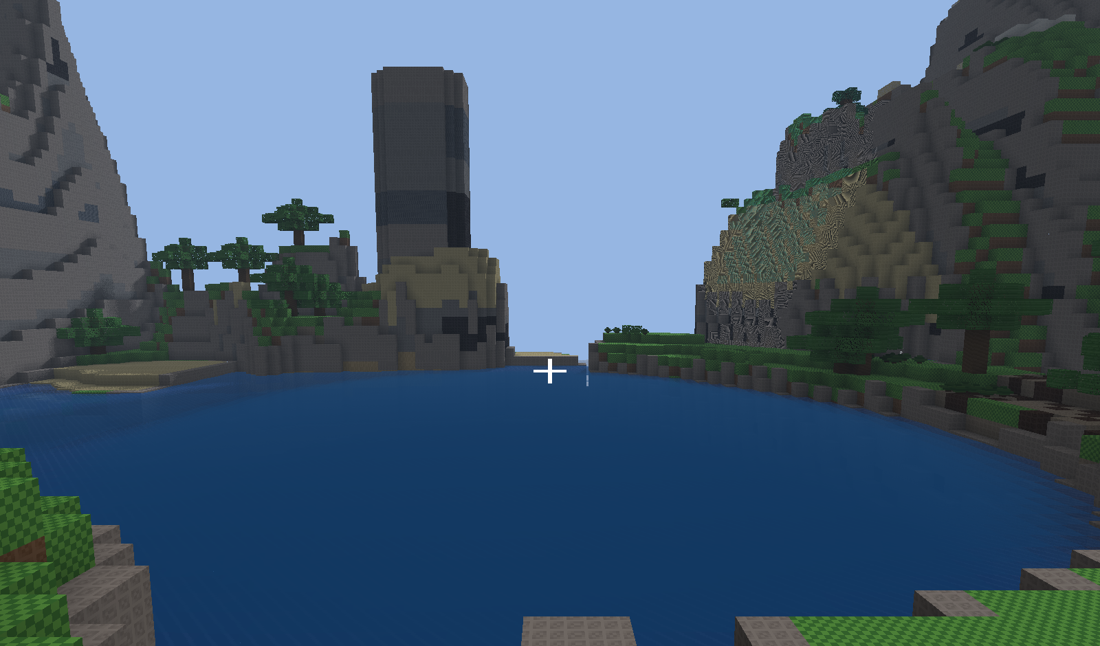
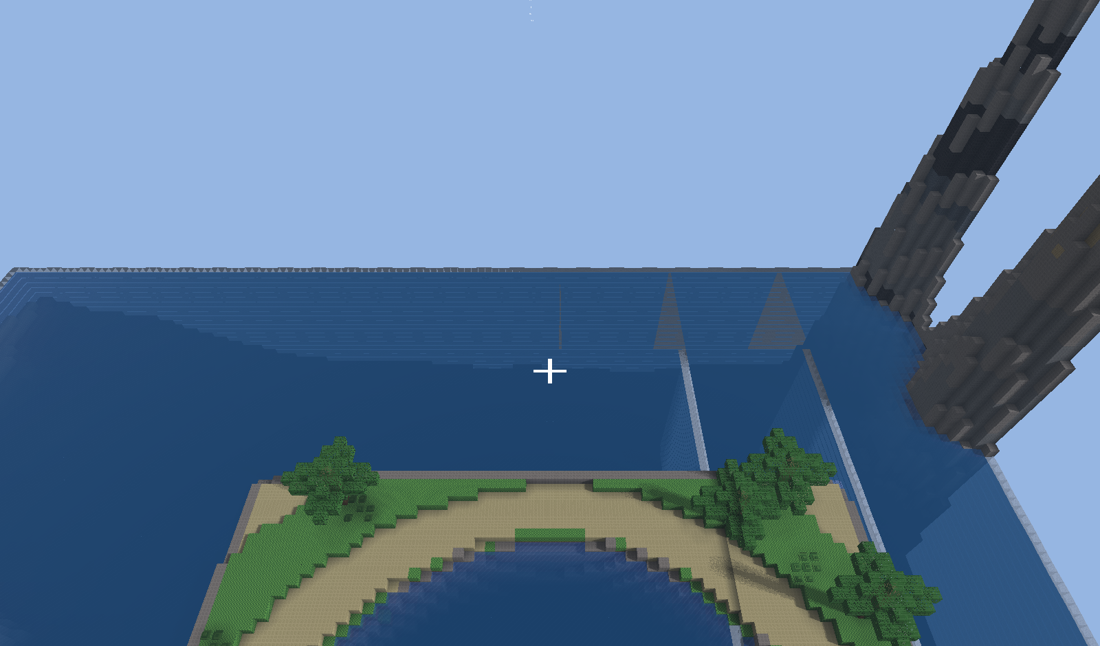
feat(terrain): open ocean, so the atoll has somewhere to be
The atoll was right and the world was wrong: the sea was wherever the land
dipped under 62, a shelf a few blocks deep, and "eight under the sea across the
ring" never held. Noise gains an ocean regime — one very broad octave marks
ocean country and ocean_of pulls the land there to an abyssal floor at sea - 22
with its own relief. It is terrain, so the pour, the beaches, the biome and the
atoll's placement all read it for free; it is in height_x4 too, or the lanes
test would have said so.

Islands: the pull is full up to sea + 12 and fades over the next 26, so a coast
drowns and a mountain becomes an island. Pulling everything drowned a glacier;
fading from the sea itself left every atoll site dry.

The atoll's country is now the ocean's own mask — with an octave of its own the
two rarely coincided. Five seeds in 140 have an atoll, in open water, ring and
lagoon and gap readable from above (docs/poi-atoll.png).

Three pinned terrain tests broke, none of them a bug in what changed: each was
a hunt asking a simpler question than the generator (water as surface; talus
over dune and bog from the piled slope; new sea-level basins that pour). A hunt
must ask the generator's own questions.

486 tests. Seed 7 now has ocean and an atoll, so both pinned hashes move
deliberately: CF_POI=0 1010970938, POIs on 866428893. Worst frame 6.50 ms.

diff --git a/RESULTS.md b/RESULTS.md
@@ -2684,3 +2684,55 @@ fails on a parse error, that number is the check and it must not fall.
 486 tests. `CF_POI=0` bit-identical (484802240); the pinned scenario with POIs
 on is 839500821 (seed 7 has a canyon and no delta). Worst frame 6.20 ms. Phase 3 is complete: all seven kinds from the original request
 are in.
+
+## Open ocean (2026-09-07)
+
+The atoll had nowhere to be. The sea was wherever the land happened to dip
+under 62 -- a shelf a few blocks deep -- and "eight under the sea across the
+ring" never held; the kind was right and the world was wrong. So the world
+gained an **ocean regime**: one very broad octave (`ocean_mask`, 1/250 blocks,
+over 0.62) marks ocean country, and there `ocean_of` pulls the land down to an
+abyssal floor at sea - 22 with its own gentle relief. It is terrain, so it
+lives in `Noise` and not in `Poi`: the lake pour, the beaches, the biome's
+distance-to-water and the atoll's placement all read it for free. It is in
+`height_x4` too, or the SIMD lanes test would have said so.
+
+**Islands.** The first version pulled everything in ocean country to the floor,
+snow-line peaks included; a glacier test at seed 11 said so. The pull is now
+full up to sea + 12 and fades over the next 26, so a coast drowns and a
+mountain becomes an island. A first attempt at that fade started at the sea
+itself, and a coast at sea + 8 kept most of its height -- every atoll site went
+dry (seed 54's ground went from 41 to 70).
+
+**The atoll's country is the ocean's.** Giving it an octave of its own meant the
+two rarely coincided: a ring probed thirty blocks out from a deep site kept
+finding the coast of the ocean's own patch. One in 140 seeds, then five once
+`country(k_atoll)` became `ocean_mask` and the ring was allowed to want real
+water again (`max_ground` sea - 6, probes at three quarters of the radius).
+`docs/poi-atoll.png` is seed 116 from above: a sand-and-grass ring round a blue
+lagoon in open sea, with the gap on the bearing.
+
+**Three pinned tests broke, and none of them was a bug in what changed.** Each
+was a hunt that asked a simpler question than the generator does, and open
+ocean was the first terrain where the answers differed:
+
+- *the biome band scan* -- `Biome.height_of` reads a column's surface with
+  water counted as ground (its climate wants that); `World.surface_y` stops at
+  the first collidable block, the bed. They agree on land, and every band
+  column had been land. The assertion now allows the sea's surface under water.
+- *the dune column is sand through* -- gravel on top: the generator gives talus
+  precedence over dune sand and reads slope off the PILED heightmap, which a
+  hunt over `Noise.slope` cannot see. The hunt now wants a dead-flat column.
+- *the bog* -- twice. First the same piled-slope trap; then, with that fixed,
+  every bog-shaped flat at seed 11 was the bed of a poured lake, because open
+  ocean makes new closed basins at sea level whose rims pour. The hunt now asks
+  the lake table too, and tries seeds from 11 up until one has bog.
+
+The pattern: **a hunt must ask the generator's own questions**, or the first
+terrain that separates them will fail the test for a reason that is not a bug.
+
+486 tests. Seed 7 now sits partly in ocean country and has an atoll at (94, 11),
+so both pinned hashes move deliberately: `CF_POI=0` **1010970938**, POIs on
+**866428893**. The `CF_POI=0` world is no longer "the world before POIs" -- the
+terrain itself changed -- but it is still the world with every point of
+interest off, which is what the gate is for.

diff --git a/todos.md b/todos.md
@@ -35,7 +35,7 @@ measurements.
 - [x] **World size in the seed; the new-world page** — done 2026-09-05 (terrain-erosion spec, "World size"): 64/96/128-block worlds, the side packed above the age in the seed, NEW GAME asks size and age (RANDOM or set) before START, `CF_SIZE`, slots load at their own side. Above 128 is the literal refactor `world_size_test` names.
 - [x] **Lake outlets on ancient worlds** — resolved 2026-09-05: the creeping flow was cave worms breaching lake basins, not sheets on terraces; worms now keep out of basin walls (`Caves.basin_wall`, `CF_KARST`), and since a full lake turned out to have no outlet at all, the pour point is dug one block down as a notch, one per basin of six or more columns. Flow plateaus at ~400 cells at both ages. See the lakes spec §3 and §6.
 
-- [x] **Points of interest** — done 2026-09-07 (`docs/superpowers/specs/2026-09-06-points-of-interest-design.md`, plan `docs/superpowers/plans/2026-09-06-poi-phase1.md`, measurements in RESULTS). All seven kinds from the request are in: desert buttes, the stone arch, the crystal cavern, the giant tree, the canyon, the atoll, the delta. A kind is a row in `CubeForge.Poi`'s tables plus a shape from shared profiles; three classes (scatter, landmark, field) decide where its rules are read; `CF_POI_PREVIEW=<kind>` draws it, `CF_POI_TRANSECT=<z>` reads a landform across the world, `CF_POI_GATE=1` says which placement rule refuses a kind, and one test walks every kind through the invariants. `CF_POI=0` leaves the world bit-identical. Landed on the way: the water depth tint, self-lit emissive faces, `CF_SPAWN_X/Z`, `CF_YAW`. **Follow-ups, not started:** coloured block light (three fields) so an emitter's cast light matches its own colour; another look at the crystals' proportions; the atoll reads as a crater lake as often as a reef because the world has shelf rather than ocean — an open-ocean terrain regime would fix that, not the kind.
+- [x] **Points of interest** — done 2026-09-07 (`docs/superpowers/specs/2026-09-06-points-of-interest-design.md`, plan `docs/superpowers/plans/2026-09-06-poi-phase1.md`, measurements in RESULTS). All seven kinds from the request are in: desert buttes, the stone arch, the crystal cavern, the giant tree, the canyon, the atoll, the delta. A kind is a row in `CubeForge.Poi`'s tables plus a shape from shared profiles; three classes (scatter, landmark, field) decide where its rules are read; `CF_POI_PREVIEW=<kind>` draws it, `CF_POI_TRANSECT=<z>` reads a landform across the world, `CF_POI_GATE=1` says which placement rule refuses a kind, and one test walks every kind through the invariants. `CF_POI=0` leaves the world bit-identical. Landed on the way: the water depth tint, self-lit emissive faces, `CF_SPAWN_X/Z`, `CF_YAW`. **Follow-ups, not started:** coloured block light (three fields) so an emitter's cast light matches its own colour; another look at the crystals' proportions; the atoll now sits in real sea: an open-ocean regime landed in `Noise` on 2026-09-07 (`ocean_mask`, `ocean_of`), and the atoll's country is the ocean's mask.
 
 ## Engine
 

diff --git a/docs/superpowers/specs/2026-09-06-points-of-interest-design.md b/docs/superpowers/specs/2026-09-06-points-of-interest-design.md
@@ -377,3 +377,13 @@ rock at both ends.
 - All seven kinds from the request are in. The census over forty seeds: buttes
   and canyons regional, arches and giant trees one in eight, caverns one in
   five, deltas nine in forty, atolls two in a hundred and forty.
+
+## 14. Open ocean (2026-09-07)
+
+The atoll was right and the world was wrong: it had shelf, not sea. `Noise`
+gained an ocean regime -- a broad octave under which the land is pulled to an
+abyssal floor, full up to sea + 12 and fading above so high ground is an island
+-- and the atoll's country became the ocean's own mask. Five seeds in 140 have
+an atoll, in open water, ring and lagoon and gap all readable from above. Three
+pinned terrain tests broke on the way, each a hunt asking a simpler question
+than the generator; RESULTS has them.
